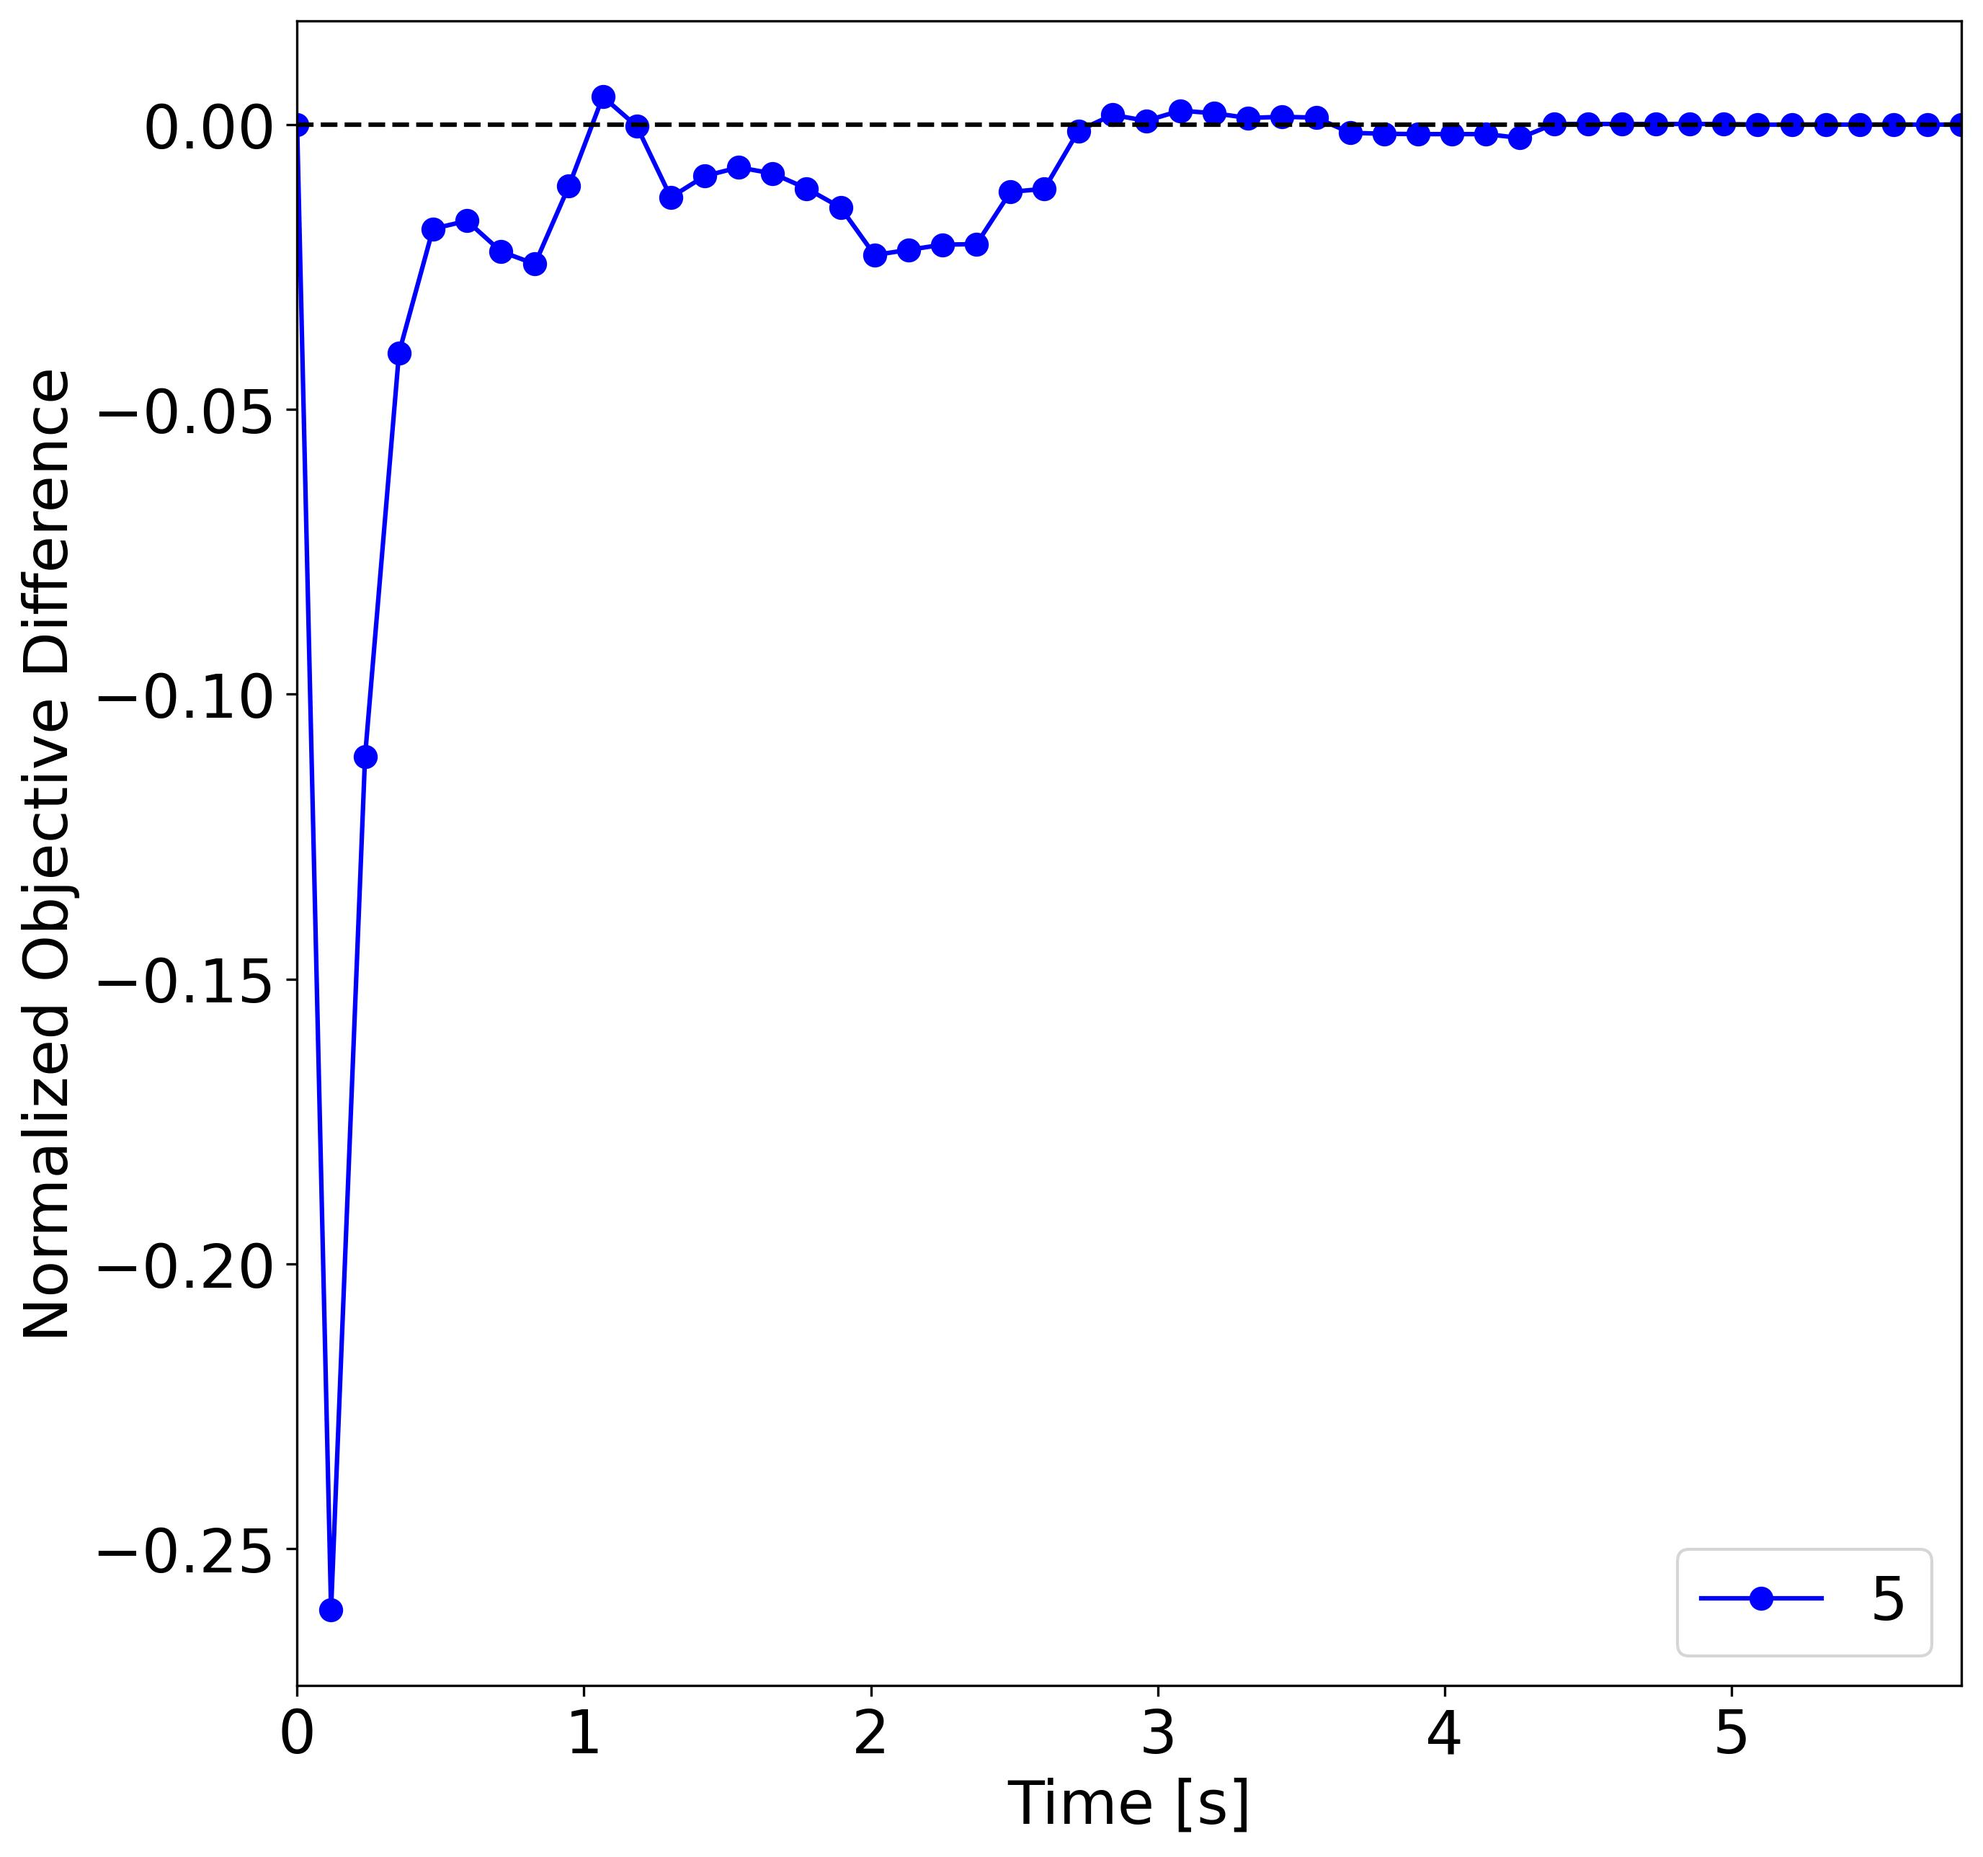
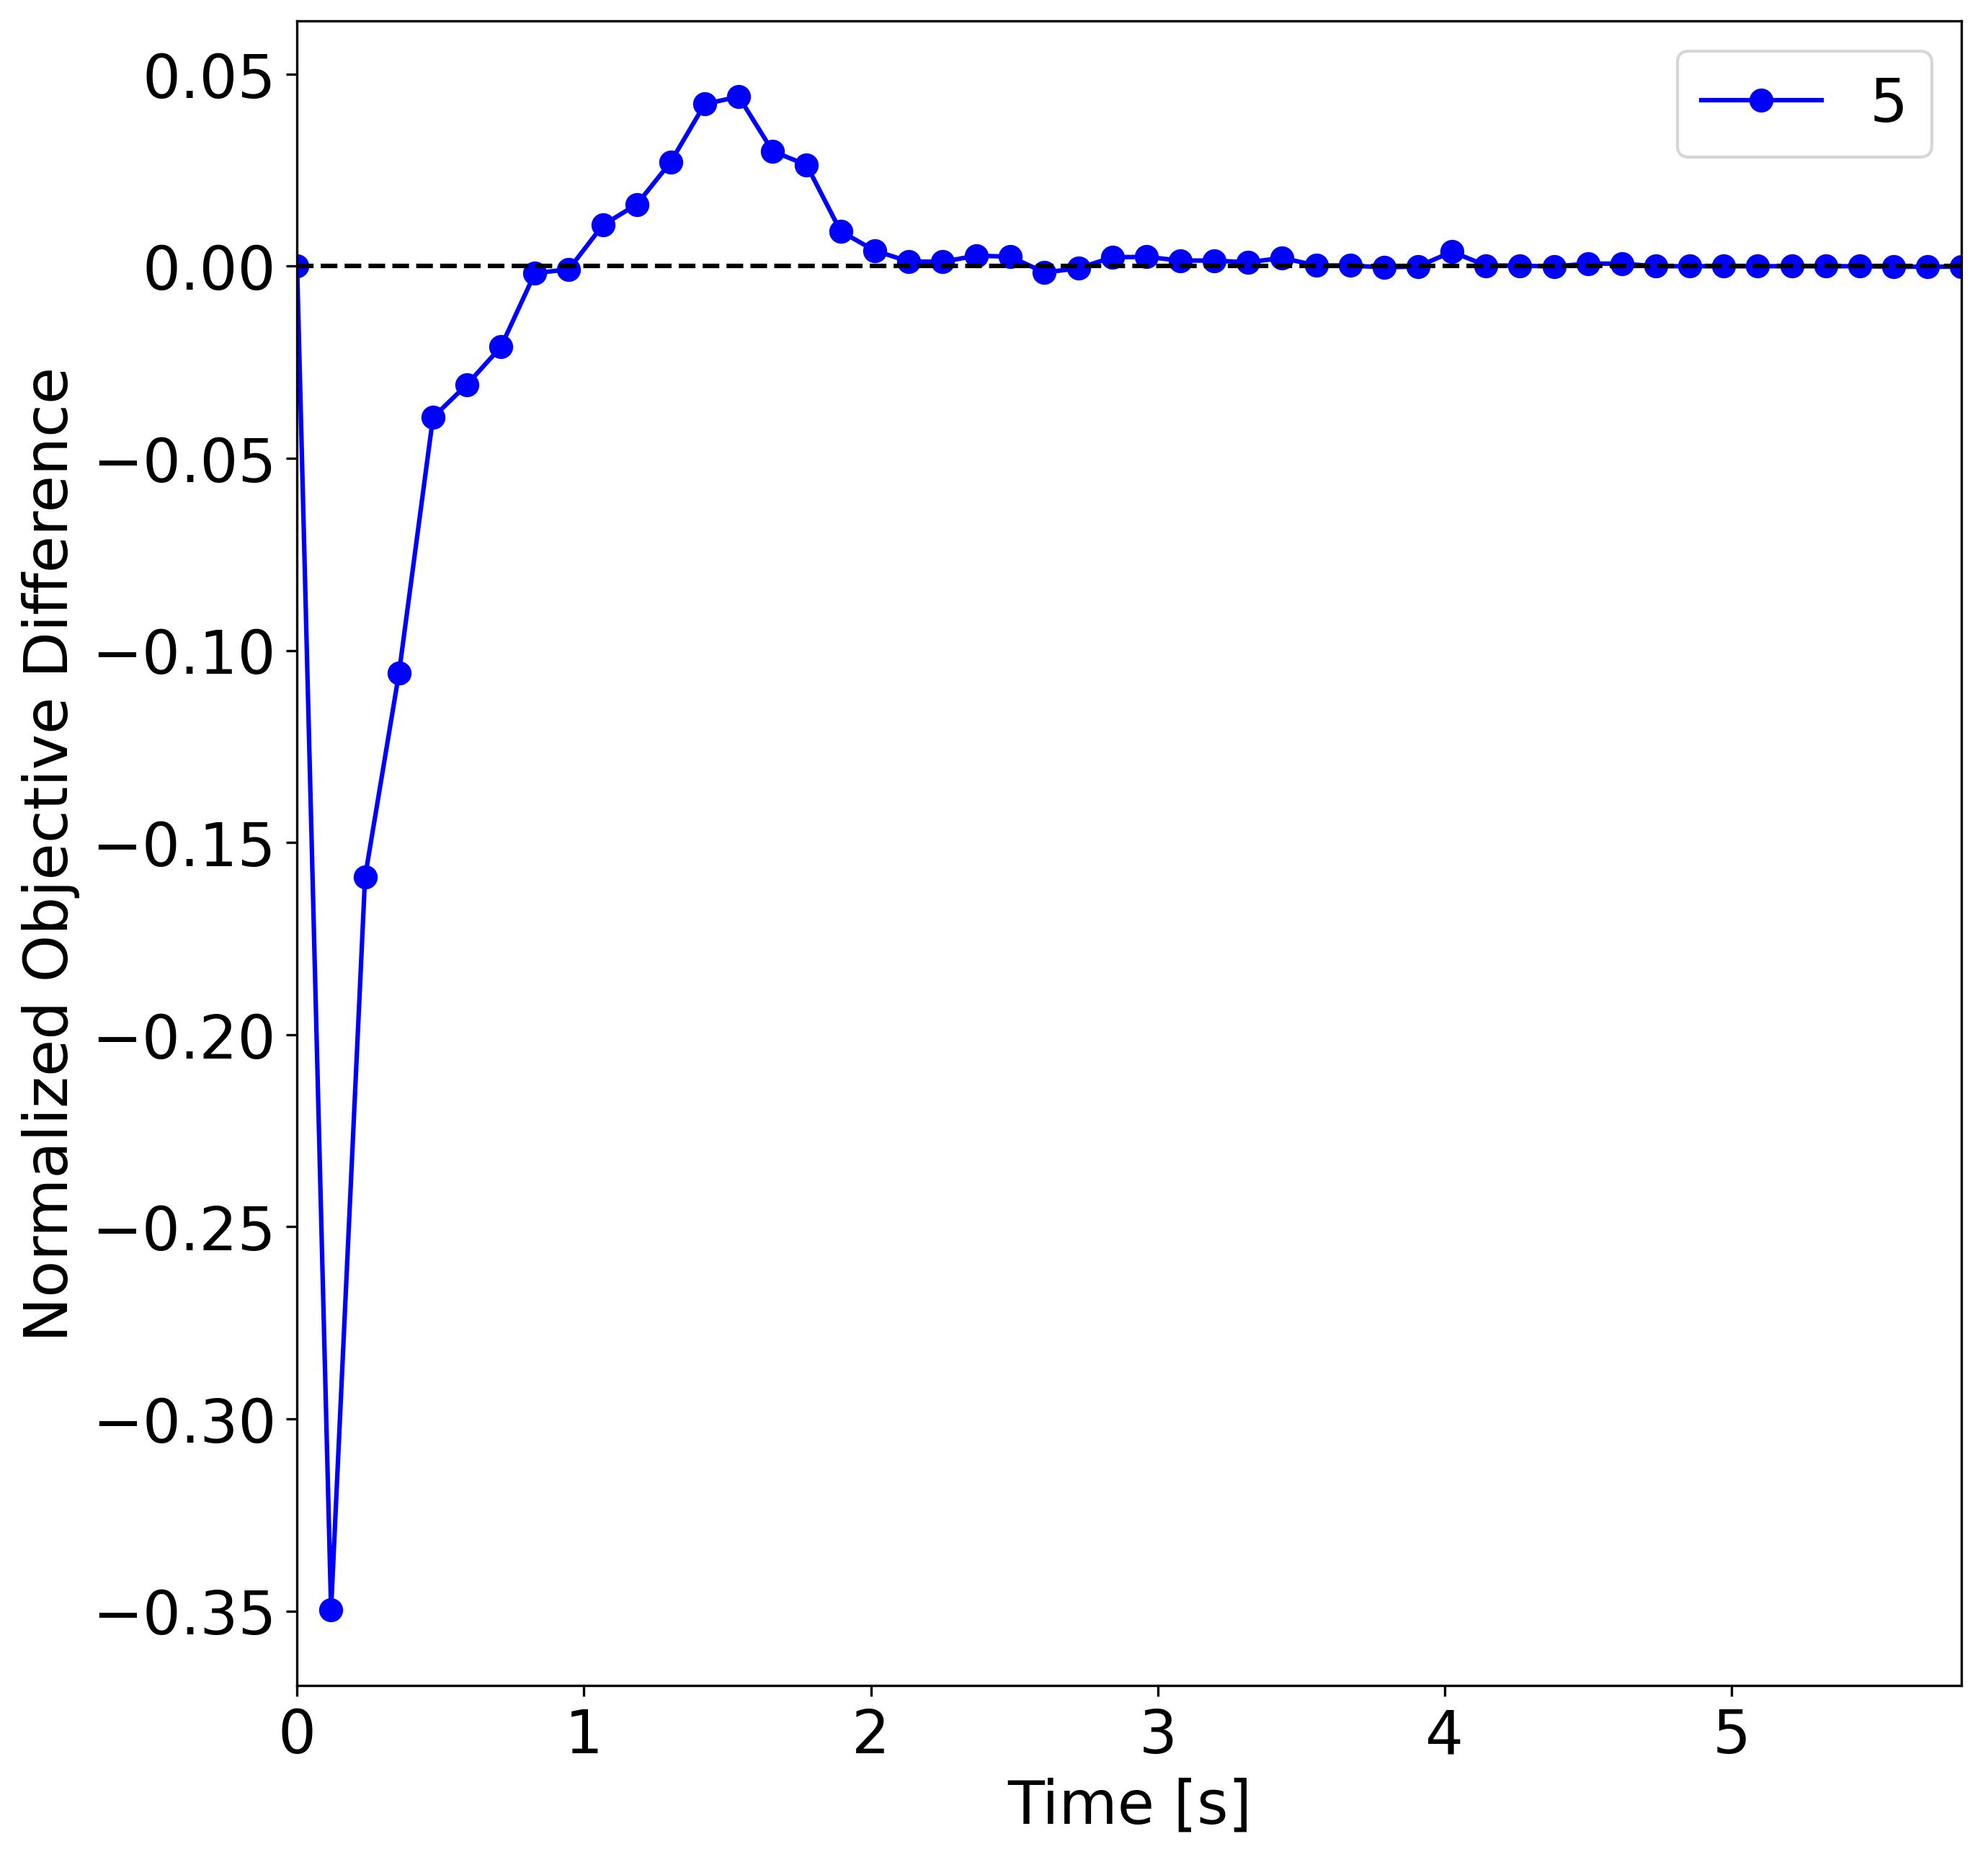
Initial angle update

diff --git a/plots/power_grid_opt.py b/plots/power_grid_opt.py
@@ -80,15 +80,15 @@ def plot_average_histories():
 def plot_history_diff():
     """Plots differences between the two configured solver curves."""
     num_generators = [5]
-    solver_ids = ["hybrid/nl_1", "uniform"]
-    ref_ind = 0
+    solver_ids = ["hybrid/nl_1/uniform", "uniform", "hybrid/nl_1"]
+    ref_ind = 2
     violation_tolerance = 1e-10
 
     history_data = load_histories(num_generators, solver_ids, ref_ind, violation_tolerance)
     lines = []
     for num_gens_ind, num_gens in enumerate(num_generators):
         xs, solver_data = history_data[num_gens_ind]
-        first_ys, second_ys = solver_data
+        first_ys, second_ys = solver_data[:2]
         lines.append(Line(xs, first_ys - second_ys, color=num_gens_ind, marker=0, label=str(num_gens)))
     lines.append(Line([0, 10000], [0, 0], color="black", marker="none", style="--"))
     plot_general(lines, axis_labels=("Time [s]", "Normalized Objective Difference"), boundaries=(0, xs[-1], None, None))

diff --git a/src/PowerFlowSolver.py b/src/PowerFlowSolver.py
@@ -398,8 +398,7 @@ class HybridSolver(PowerFlowSolver):
 
         if initial_angles is None:
             # initial_angles = random.default_rng(self.seed).uniform(-np.pi, np.pi, len(self.vqp.circuit.parameters))
-            initial_angles = np.array([{"G": 0.001, "B": -0.001}[parameter.name[0]] for parameter in self.vqp.circuit.parameters])
-            # initial_angles = np.zeros(len(self.vqp.circuit.parameters))
+            initial_angles = np.array([{"G": 0, "B": -0}[parameter.name[0]] for parameter in self.vqp.circuit.parameters])
         active_cost = get_cost_inverse
 
         history = []
